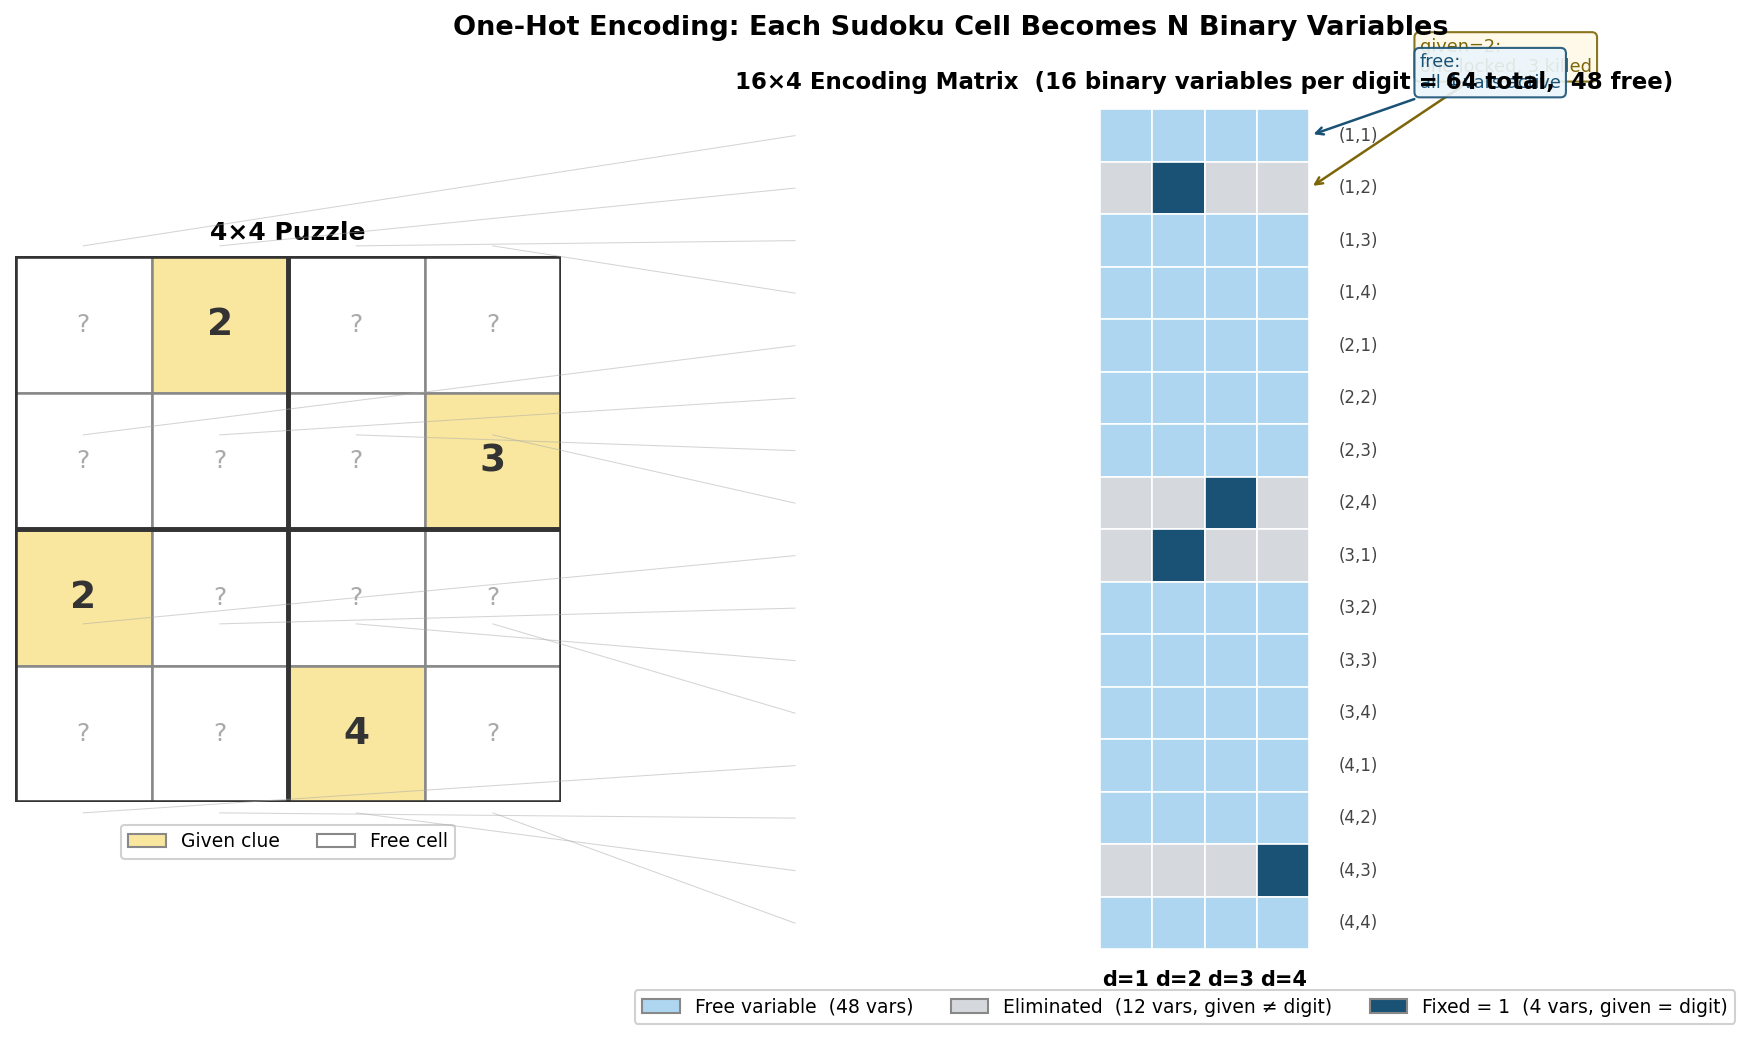
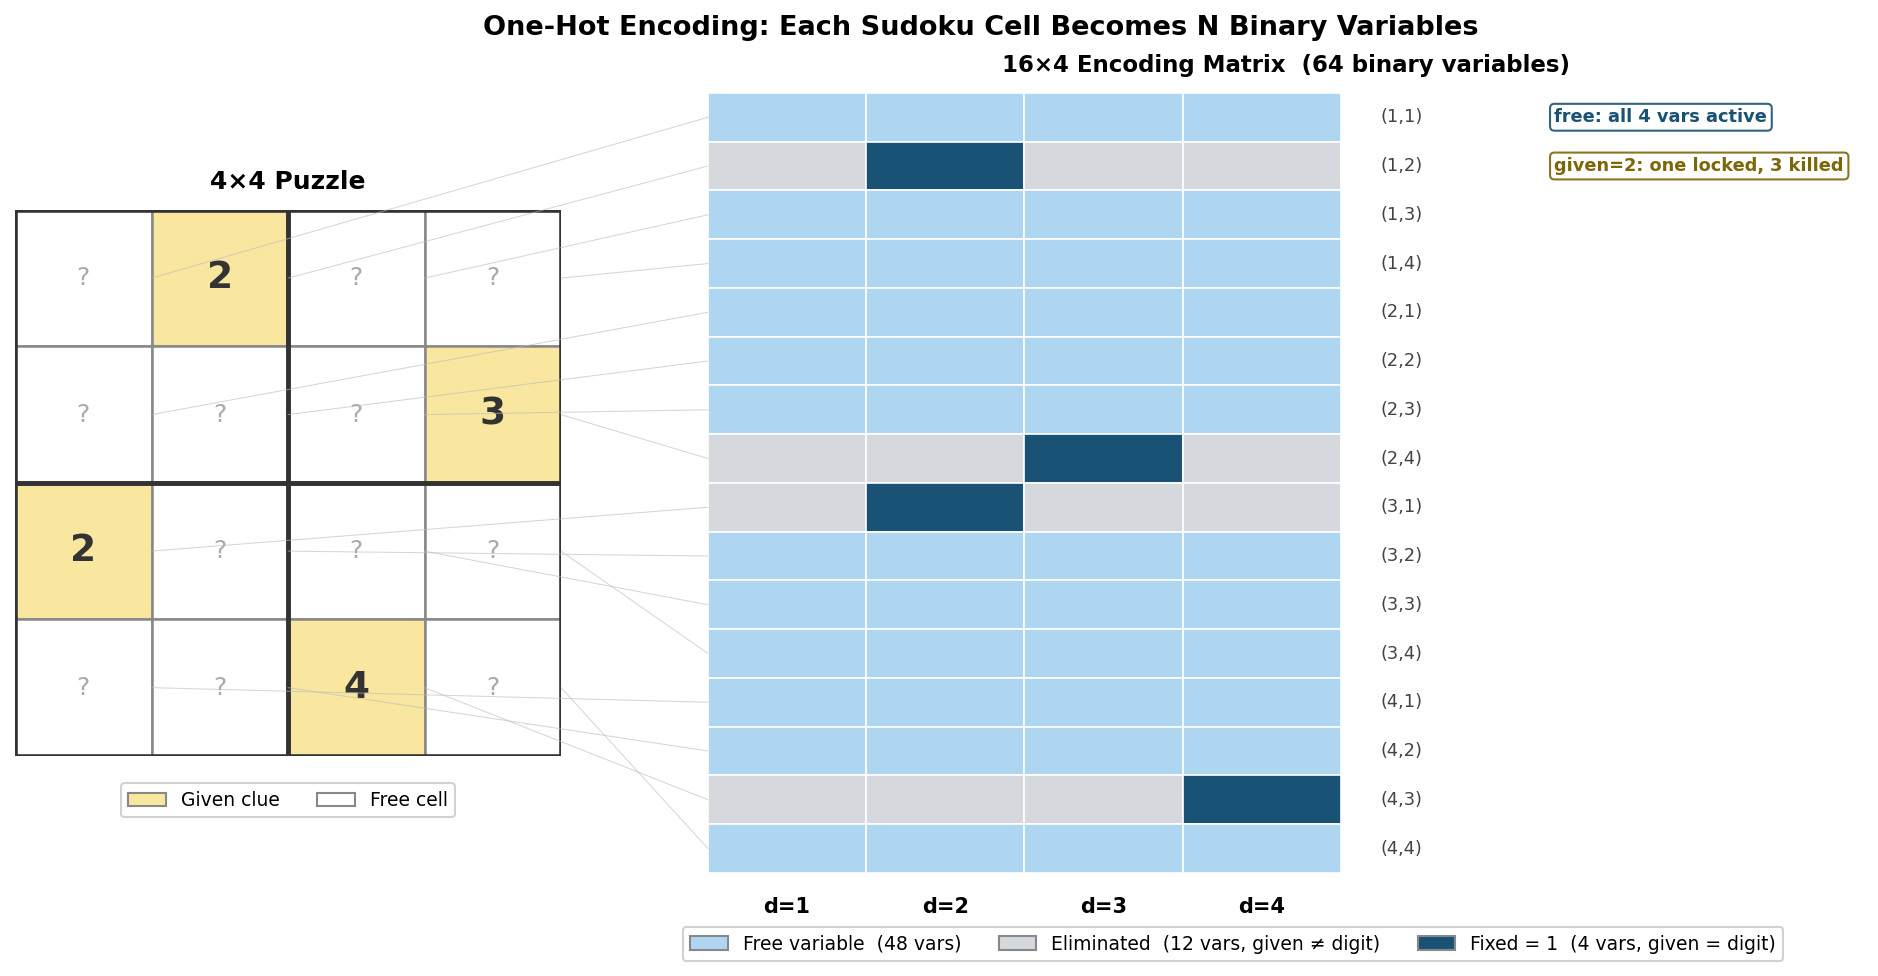
Fix fig2: restore original layout with clean labels and non-overlapping annotations

diff --git a/figures/plot_fig2_onehot.py b/figures/plot_fig2_onehot.py
@@ -1,11 +1,6 @@
 """
 Recreate fig2_onehot_matrix.png — One-Hot Encoding visualization.
 
-Shows how a 4×4 Sudoku puzzle maps to a 16×4 binary encoding matrix,
-color-coded by variable status (free / eliminated / fixed=1).
-
-Uses hard_1 puzzle: 4 givens (2 @ r0c1, 3 @ r1c3, 2 @ r2c0, 4 @ r3c2)
-
 Run from repo root:
     python figures/plot_fig2_onehot.py
 """
@@ -13,7 +8,7 @@ Run from repo root:
 import numpy as np
 import matplotlib.pyplot as plt
 import matplotlib.patches as mpatches
-from matplotlib.patches import FancyArrowPatch
+from matplotlib.patches import ConnectionPatch
 from pathlib import Path
 
 OUT = Path(__file__).parent / "fig2_onehot_matrix.png"
@@ -27,11 +22,8 @@ PUZZLE = np.array([
 ])
 N = 4
 
-# ---------------------------------------------------------------------------
-# Build encoding matrix  shape (16, 4)
-# Row i*N+j = cell (i,j), col k = digit k+1
-# Values: 0 = free, -1 = eliminated (given wrong digit), 1 = fixed
-# ---------------------------------------------------------------------------
+# Build encoding matrix (16 rows × 4 cols)
+# 0 = free, -1 = eliminated, 1 = fixed
 enc = np.zeros((N * N, N), dtype=int)
 for i in range(N):
     for j in range(N):
@@ -40,176 +32,160 @@ for i in range(N):
             for k in range(N):
                 enc[i * N + j, k] = 1 if k == g - 1 else -1
 
-# Colors
-FREE_C  = "#AED6F1"   # light blue
-ELIM_C  = "#D5D8DC"   # light gray
-FIXED_C = "#1A5276"   # dark blue
-BLANK_C = "white"
+FREE_C  = "#AED6F1"
+ELIM_C  = "#D5D8DC"
+FIXED_C = "#1A5276"
+GOLD_C  = "#F0B429"   # annotation highlight
 
-# ---------------------------------------------------------------------------
-# Layout: puzzle grid left, matrix right, connecting lines in between
-# ---------------------------------------------------------------------------
-fig = plt.figure(figsize=(13, 7))
-fig.patch.set_facecolor("white")
-
-ax_puzzle = fig.add_axes([0.02, 0.12, 0.28, 0.72])   # left: puzzle
-ax_matrix = fig.add_axes([0.42, 0.08, 0.42, 0.80])   # right: matrix
-
-# ── Puzzle grid ─────────────────────────────────────────────────────────────
-ax_puzzle.set_xlim(0, N)
-ax_puzzle.set_ylim(0, N)
-ax_puzzle.set_aspect("equal")
-ax_puzzle.axis("off")
-ax_puzzle.set_title("4×4 Puzzle", fontsize=12, fontweight="bold", pad=8)
-
-BOX_GIVEN = "#F9E79F"
-BOX_FREE  = "white"
-
-for i in range(N):
-    for j in range(N):
-        val  = PUZZLE[i, j]
-        row  = N - 1 - i          # flip so row 0 is at top
-        col  = j
-        color = BOX_GIVEN if val != 0 else BOX_FREE
-        rect = plt.Rectangle([col, row], 1, 1,
-                              facecolor=color, edgecolor="#888888", linewidth=1.2)
-        ax_puzzle.add_patch(rect)
-        if val != 0:
-            ax_puzzle.text(col + 0.5, row + 0.5, str(val),
-                           ha="center", va="center",
-                           fontsize=18, fontweight="bold", color="#333333")
-        else:
-            ax_puzzle.text(col + 0.5, row + 0.5, "?",
-                           ha="center", va="center",
-                           fontsize=12, color="#aaaaaa")
-
-# Box borders (2×2 boxes)
-for br in range(2):
-    for bc in range(2):
-        rect = plt.Rectangle([bc * 2, br * 2], 2, 2,
-                              fill=False, edgecolor="#333333", linewidth=2.2)
-        ax_puzzle.add_patch(rect)
-
-# Legend for puzzle
-given_patch = mpatches.Patch(facecolor=BOX_GIVEN, edgecolor="#888888", label="Given clue")
-free_patch  = mpatches.Patch(facecolor=BOX_FREE,  edgecolor="#888888", label="Free cell")
-ax_puzzle.legend(handles=[given_patch, free_patch],
-                 loc="lower center", bbox_to_anchor=(0.5, -0.12),
-                 fontsize=9, framealpha=0.9, ncol=2)
-
-# ── Encoding matrix ─────────────────────────────────────────────────────────
-ax_matrix.set_xlim(-0.5, N - 0.5)
-ax_matrix.set_ylim(-0.5, N * N - 0.5)
-ax_matrix.set_aspect("equal")
-ax_matrix.axis("off")
-ax_matrix.set_title(
-    f"16×4 Encoding Matrix  ({N*N} binary variables per digit = {N*N*N} total,  "
-    f"{int(np.sum(enc == 0))} free)",
-    fontsize=11, fontweight="bold", pad=10,
-)
-
-for row_idx in range(N * N):
-    cell_row = row_idx // N   # 0-indexed puzzle row
-    cell_col = row_idx % N    # 0-indexed puzzle col
-    mat_y    = N * N - 1 - row_idx   # flip so (1,1) at top
-
-    for k in range(N):
-        v = enc[row_idx, k]
-        if v == 0:
-            color = FREE_C
-        elif v == -1:
-            color = ELIM_C
-        else:
-            color = FIXED_C
-
-        rect = plt.Rectangle([k - 0.5, mat_y - 0.5], 1, 1,
-                              facecolor=color, edgecolor="white", linewidth=0.8)
-        ax_matrix.add_patch(rect)
-
-    # Row label (right side) — (row, col) 1-indexed
-    ax_matrix.text(N - 0.5 + 0.55, mat_y,
-                   f"({cell_row+1},{cell_col+1})",
-                   ha="left", va="center", fontsize=8, color="#444444")
-
-# Column labels (bottom)
-for k in range(N):
-    ax_matrix.text(k, -0.5 - 0.4, f"d={k+1}",
-                   ha="center", va="top", fontsize=10, fontweight="bold")
-
-# Annotations with arrows pointing to specific rows
-# Row (1,2): given=2 — top given row in matrix (row_idx=1 → mat_y = N²-2 = 14)
-given_row_y = N * N - 1 - 1   # (1,2) is row_idx=1
-
-ax_matrix.annotate(
-    "given=2:\none locked, 3 killed",
-    xy=(N - 0.5, given_row_y),
-    xytext=(N + 1.6, given_row_y + 2.5),
-    fontsize=8.5, color="#7D6608",
-    ha="left", va="center",
-    arrowprops=dict(arrowstyle="->", color="#7D6608", lw=1.2),
-    bbox=dict(boxstyle="round,pad=0.3", facecolor="#FEF9E7",
-              edgecolor="#7D6608", alpha=0.9),
-)
-
-# Row (1,1): free — row_idx=0 → mat_y = N²-1 = 15
-free_row_y = N * N - 1 - 0
-
-ax_matrix.annotate(
-    "free:\nall 4 vars active",
-    xy=(N - 0.5, free_row_y),
-    xytext=(N + 1.6, free_row_y + 1.2),
-    fontsize=8.5, color="#1A5276",
-    ha="left", va="center",
-    arrowprops=dict(arrowstyle="->", color="#1A5276", lw=1.2),
-    bbox=dict(boxstyle="round,pad=0.3", facecolor="#EBF5FB",
-              edgecolor="#1A5276", alpha=0.9),
-)
-
-# ── Bottom legend for matrix ─────────────────────────────────────────────────
 n_free  = int(np.sum(enc == 0))
 n_elim  = int(np.sum(enc == -1))
 n_fixed = int(np.sum(enc == 1))
 
-patches = [
-    mpatches.Patch(facecolor=FREE_C,  edgecolor="#888888",
-                   label=f"Free variable  ({n_free} vars)"),
-    mpatches.Patch(facecolor=ELIM_C,  edgecolor="#888888",
-                   label=f"Eliminated  ({n_elim} vars, given ≠ digit)"),
-    mpatches.Patch(facecolor=FIXED_C, edgecolor="#888888",
-                   label=f"Fixed = 1  ({n_fixed} vars, given = digit)"),
-]
-fig.legend(handles=patches, loc="lower center", bbox_to_anchor=(0.62, 0.0),
-           fontsize=9, ncol=3, framealpha=0.9)
+# ---------------------------------------------------------------------------
+# Figure layout
+# ---------------------------------------------------------------------------
+fig = plt.figure(figsize=(14, 6.5))
+fig.patch.set_facecolor("white")
 
-# ── Connecting lines (puzzle cell → matrix row) ───────────────────────────────
-# Map puzzle axes → figure coords via transforms
+# Puzzle axes (left) — square cells
+ax_p = fig.add_axes([0.04, 0.12, 0.26, 0.76])
+ax_p.set_xlim(0, N)
+ax_p.set_ylim(0, N)
+ax_p.set_aspect("equal")
+ax_p.axis("off")
+ax_p.set_title("4×4 Puzzle", fontsize=12, fontweight="bold", pad=10)
+
+# Matrix axes (right) — wider than tall cells, with extra x room for labels
+ax_m = fig.add_axes([0.37, 0.10, 0.55, 0.80])
+# xlim: cols 0-3 plus space for row labels
+ax_m.set_xlim(-0.5, N + 2.8)
+ax_m.set_ylim(-0.5, N * N - 0.5)
+ax_m.axis("off")
+ax_m.set_title(
+    f"16×4 Encoding Matrix  (64 binary variables)",
+    fontsize=11, fontweight="bold", pad=10,
+)
+
+# ---------------------------------------------------------------------------
+# Draw puzzle grid
+# ---------------------------------------------------------------------------
+for i in range(N):
+    for j in range(N):
+        val = PUZZLE[i, j]
+        ry  = N - 1 - i
+        fc  = "#F9E79F" if val != 0 else "white"
+        ax_p.add_patch(plt.Rectangle([j, ry], 1, 1,
+                       facecolor=fc, edgecolor="#888888", linewidth=1.2))
+        if val != 0:
+            ax_p.text(j + 0.5, ry + 0.5, str(val),
+                      ha="center", va="center", fontsize=18,
+                      fontweight="bold", color="#333333")
+        else:
+            ax_p.text(j + 0.5, ry + 0.5, "?",
+                      ha="center", va="center", fontsize=12, color="#aaaaaa")
+
+# 2×2 box borders
+for br in range(2):
+    for bc in range(2):
+        ax_p.add_patch(plt.Rectangle([bc * 2, br * 2], 2, 2,
+                       fill=False, edgecolor="#333333", linewidth=2.2))
+
+# Puzzle legend
+ax_p.legend(
+    handles=[
+        mpatches.Patch(facecolor="#F9E79F", edgecolor="#888888", label="Given clue"),
+        mpatches.Patch(facecolor="white",   edgecolor="#888888", label="Free cell"),
+    ],
+    loc="lower center", bbox_to_anchor=(0.5, -0.13),
+    fontsize=9, ncol=2, framealpha=0.9,
+)
+
+# ---------------------------------------------------------------------------
+# Draw encoding matrix
+# ---------------------------------------------------------------------------
+ANNOTATE_ROWS = {
+    0: ("free: all 4 vars active",      FREE_C,  "#1A5276"),   # (1,1) — top
+    1: ("given=2: one locked, 3 killed", GOLD_C,  "#7D6608"),   # (1,2)
+}
+
+for row_idx in range(N * N):
+    mat_y = N * N - 1 - row_idx
+
+    # Annotation row: highlight full row behind the cells
+    if row_idx in ANNOTATE_ROWS:
+        _, hi_col, _ = ANNOTATE_ROWS[row_idx]
+        ax_m.add_patch(plt.Rectangle(
+            [-0.5, mat_y - 0.5], N, 1,
+            facecolor=hi_col, alpha=0.35, zorder=0,
+        ))
+
+    # Draw each cell
+    for k in range(N):
+        v  = enc[row_idx, k]
+        fc = FREE_C if v == 0 else (FIXED_C if v == 1 else ELIM_C)
+        ax_m.add_patch(plt.Rectangle(
+            [k - 0.5, mat_y - 0.5], 1, 1,
+            facecolor=fc, edgecolor="white", linewidth=0.8, zorder=1,
+        ))
+
+    # Row label — (row+1, col+1) in 1-indexed
+    cell_r = row_idx // N
+    cell_c = row_idx % N
+    ax_m.text(N - 0.5 + 0.25, mat_y,
+              f"({cell_r+1},{cell_c+1})",
+              ha="left", va="center", fontsize=8.5, color="#444444")
+
+    # Annotation text for highlighted rows
+    if row_idx in ANNOTATE_ROWS:
+        label, _, txt_col = ANNOTATE_ROWS[row_idx]
+        ax_m.text(N - 0.5 + 1.35, mat_y,
+                  label, ha="left", va="center",
+                  fontsize=8.5, color=txt_col, fontweight="bold",
+                  bbox=dict(boxstyle="round,pad=0.25",
+                            facecolor="white", edgecolor=txt_col,
+                            alpha=0.9, linewidth=1.0))
+
+# Column labels (bottom)
+for k in range(N):
+    ax_m.text(k, -0.5 - 0.5, f"d={k+1}",
+              ha="center", va="top", fontsize=10, fontweight="bold")
+
+# ---------------------------------------------------------------------------
+# Connecting lines (puzzle cell → matrix row)
+# ---------------------------------------------------------------------------
 for i in range(N):
     for j in range(N):
         row_idx = i * N + j
         mat_y   = N * N - 1 - row_idx
+        puz_y   = N - 1 - i + 0.5   # cell center in puzzle axes
 
-        # Puzzle cell center in axes coords
-        puz_x = j + 0.5
-        puz_y = (N - 1 - i) + 0.5
-
-        # Convert to figure coords
-        puz_disp  = ax_puzzle.transData.transform((puz_x, puz_y))
-        puz_fig   = fig.transFigure.inverted().transform(puz_disp)
-
-        mat_disp  = ax_matrix.transData.transform((-0.5, mat_y))
-        mat_fig   = fig.transFigure.inverted().transform(mat_disp)
-
-        line = plt.Line2D(
-            [puz_fig[0], mat_fig[0]],
-            [puz_fig[1], mat_fig[1]],
-            transform=fig.transFigure,
-            color="#AAAAAA", linewidth=0.5, alpha=0.5,
+        cp = ConnectionPatch(
+            xyA=(j + 1.0, puz_y),          # right edge of puzzle cell
+            xyB=(-0.5,    mat_y),           # left edge of matrix row
+            coordsA="data", coordsB="data",
+            axesA=ax_p, axesB=ax_m,
+            color="#BBBBBB", linewidth=0.5, alpha=0.6,
         )
-        fig.add_artist(line)
+        fig.add_artist(cp)
 
-# ── Overall title ─────────────────────────────────────────────────────────────
+# ---------------------------------------------------------------------------
+# Overall title + bottom legend
+# ---------------------------------------------------------------------------
 fig.suptitle("One-Hot Encoding: Each Sudoku Cell Becomes N Binary Variables",
-             fontsize=13, fontweight="bold", y=0.97)
+             fontsize=13, fontweight="bold", y=0.98)
+
+fig.legend(
+    handles=[
+        mpatches.Patch(facecolor=FREE_C,  edgecolor="#888888",
+                       label=f"Free variable  ({n_free} vars)"),
+        mpatches.Patch(facecolor=ELIM_C,  edgecolor="#888888",
+                       label=f"Eliminated  ({n_elim} vars, given ≠ digit)"),
+        mpatches.Patch(facecolor=FIXED_C, edgecolor="#888888",
+                       label=f"Fixed = 1  ({n_fixed} vars, given = digit)"),
+    ],
+    loc="lower center", bbox_to_anchor=(0.62, 0.0),
+    fontsize=9, ncol=3, framealpha=0.9,
+)
 
 plt.savefig(OUT, dpi=150, bbox_inches="tight", facecolor="white")
 plt.close()
